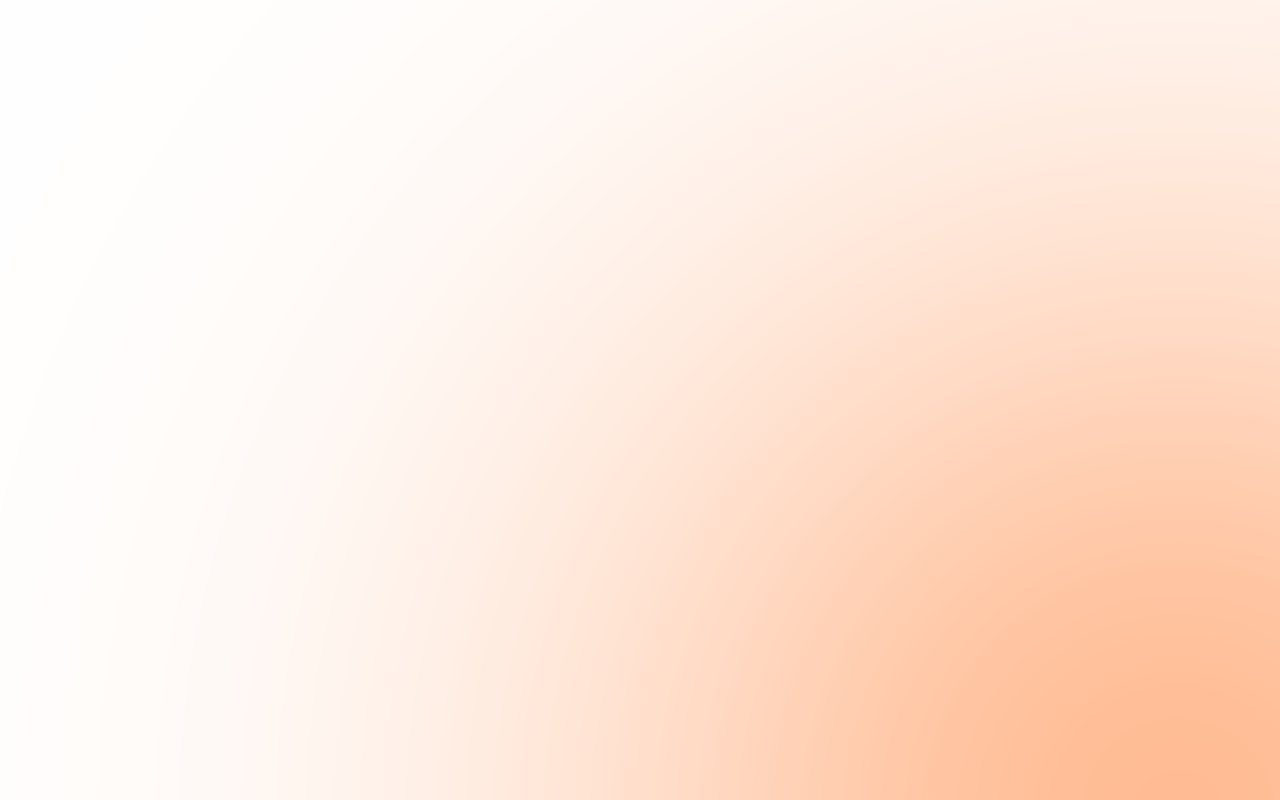
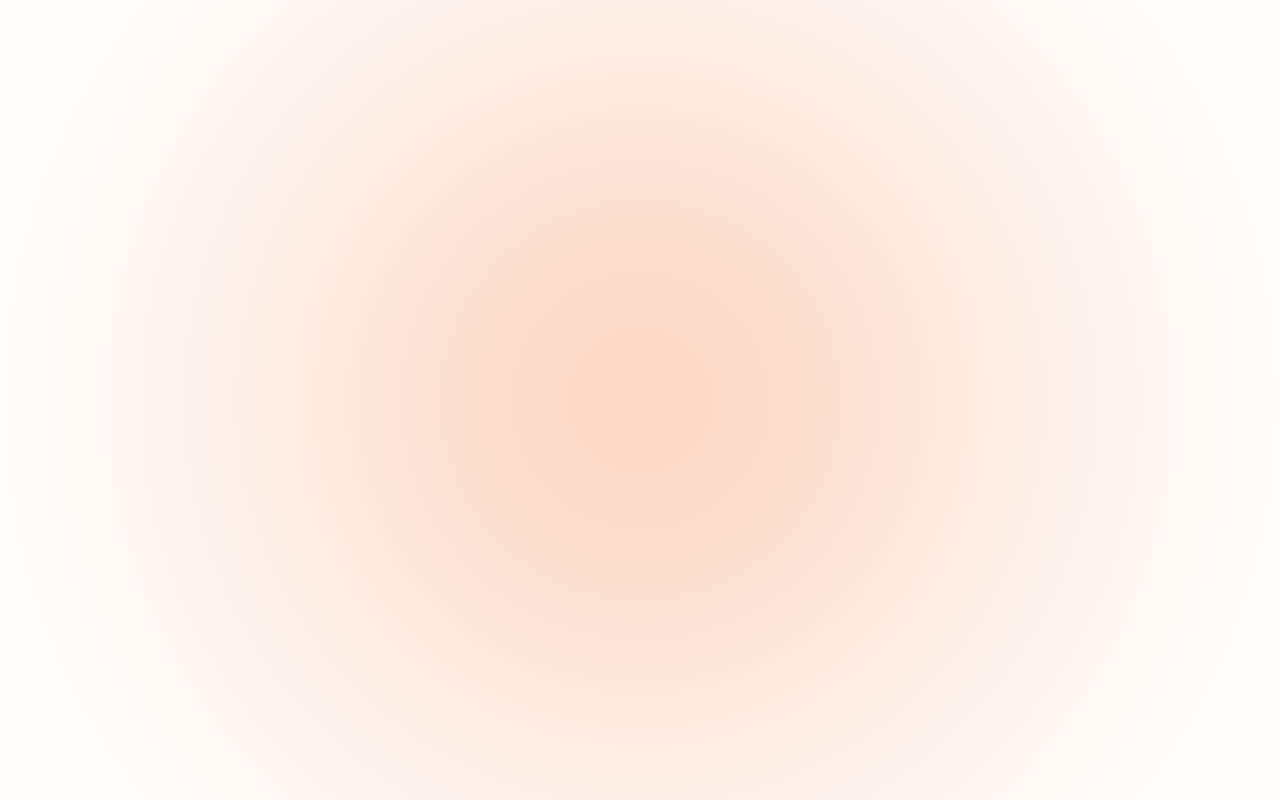
ghostty: centred, darker CRT-style amber glow

diff --git a/CLAUDE.md b/CLAUDE.md
@@ -40,8 +40,8 @@ magenta `#ff5c8f` · cyan `#2be4d0` · orange `#ff8700`
 ### Backgrounds
 
 - Ghostty: `#1c1b19`, opacity 0.70, blur, plus `ghostty/orange-glow.png`
-  as `background-image` (1280×800 RGBA, srcery orange `#ff5f00` radial
-  alpha ≤0.42 from the bottom-right; generated with a stdlib-only Python
+  as `background-image` (1280×800 RGBA, dimmed srcery orange `#eb5500`,
+  CRT-style radial alpha ≤0.22 peaking in the centre; generated with a stdlib-only Python
   PNG writer — regenerate the same way if the glow color changes). Ghostty
   expands `~` in `background-image`; the file is linked into
   `~/.config/ghostty/` by `setup-links.sh`.
